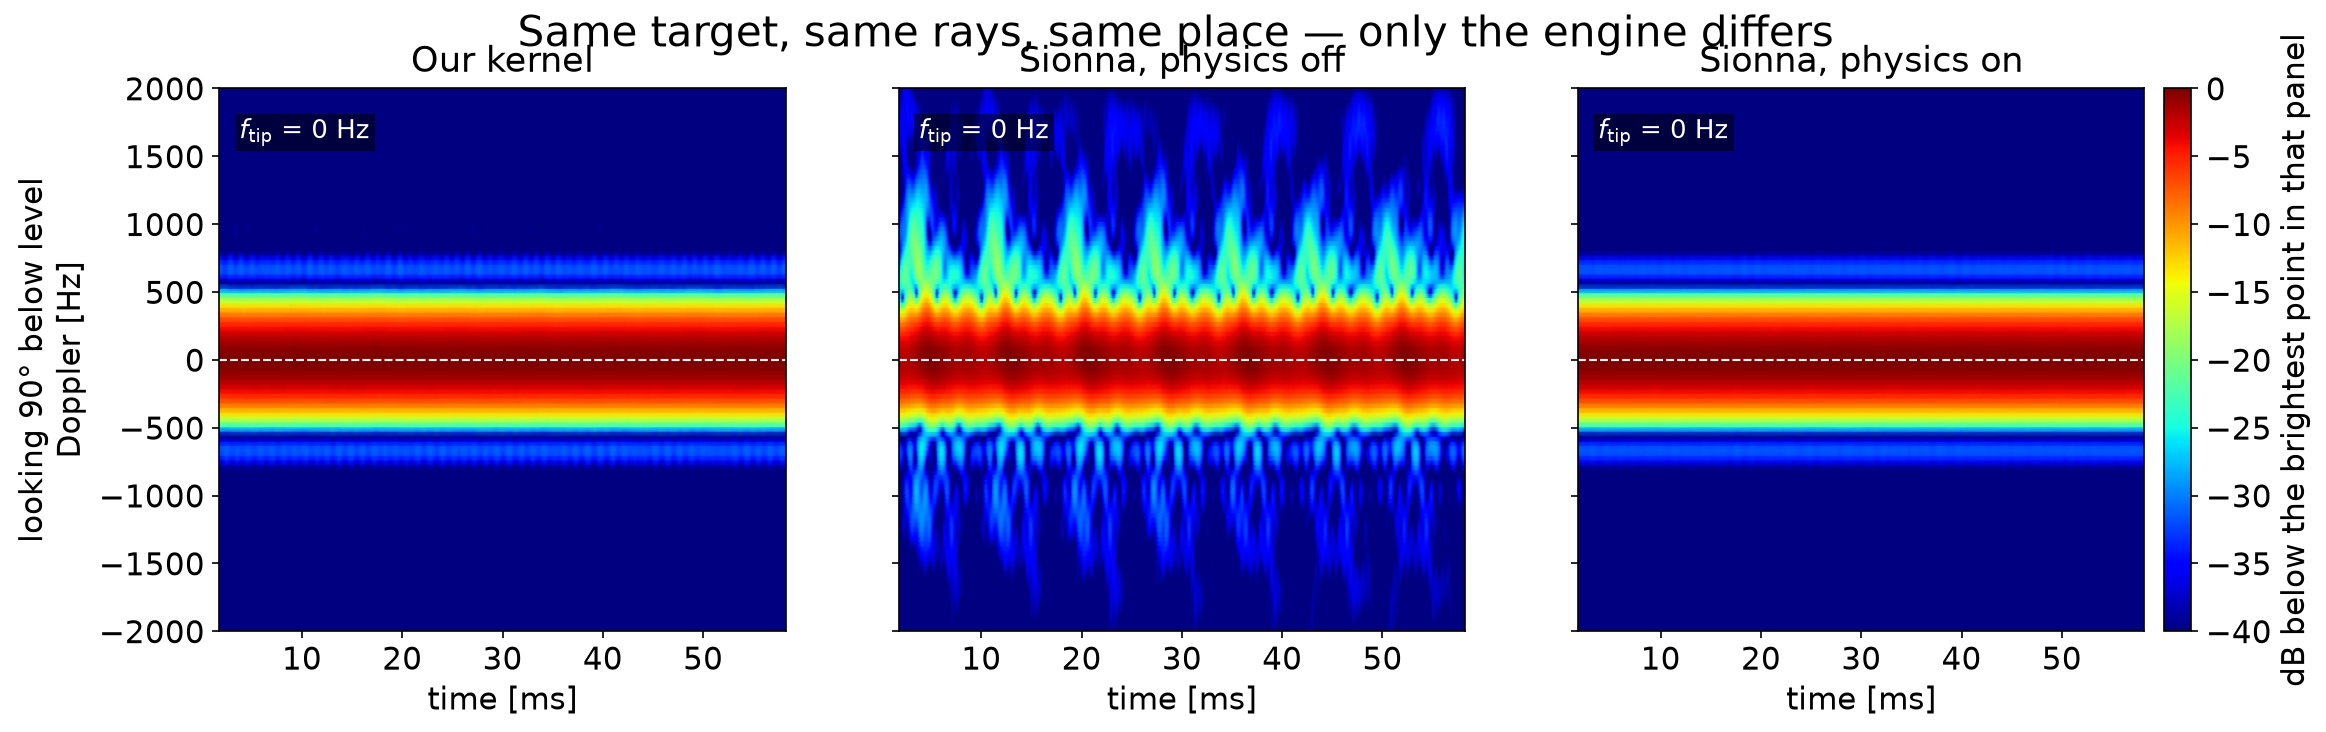
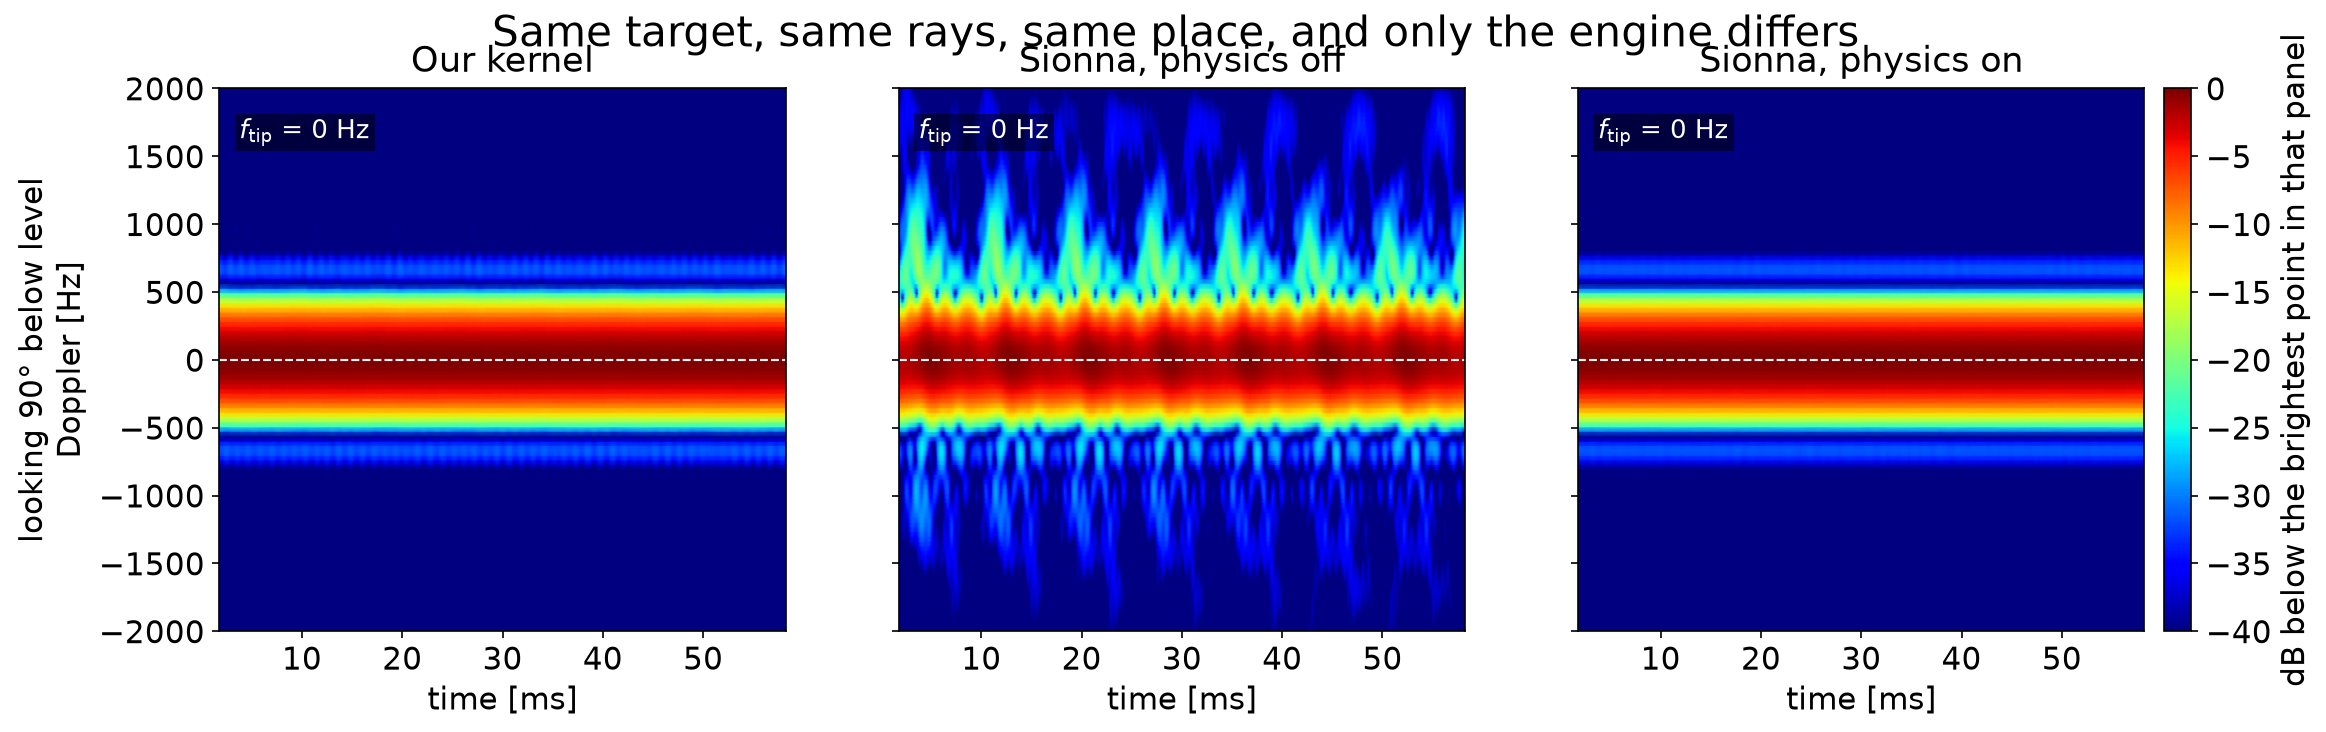
조각 87 에 «이 사다리는 10 m 판이다» 를 못 박고, 원장 키 이름 변경을 따라간다
권 16 의 앞 절들이 15 m 재설계판을 서술하는데 절 5(광선 예산 사다리)만 10 m 다.
같은 권 안에서 거리가 갈리므로 조각 안에 판을 적었다 — 레벨은 이 사다리 안에서만 견준다.

앙각 스윕 원장이 여러 거리를 함께 담게 되면서 키가 바뀐 것을 따라간다.
  _meta.range_m      → _meta.range_m_legacy_default   (옛 10 m 기본값)
  _meta.sionna_spp   → _meta.sionna_spp_primary

Changed region(s): [[0.2167, 0.0, 0.8048, 0.0902]]

diff --git a/src/build_part13_engine_physics.py b/src/build_part13_engine_physics.py
@@ -490,7 +490,7 @@ def blocks_86() -> list:
                ["플래시 예측",
                 PVD.num("_meta.f_flash_hz", fmt="{:.2f}", unit="Hz"), "같음"],
                ["거리", "3 · 15 · 40 m",
-                SWP.num("_meta.range_m", fmt="{:.0f}", unit="m")],
+                SWP.num("_meta.range_m_legacy_default", fmt="{:.0f}", unit="m")],
            ])),
 
         md("## 닮음을 눈이 아니라 수로 잰다", "",
@@ -1071,6 +1071,11 @@ def blocks_87() -> list:
                 f"가 0.02 dB 차다.",
             ],
             method=[
+                ("판",
+                 "⭐이 사다리는 **10 m 자리**에서 돌렸다 — 같은 권의 앞 절들이 서술하는 "
+                 "재설계판(15 m · 광선 40 억 발 고정)과 다른 자리다. 그래서 여기서 읽는 "
+                 "것은 «예산을 올리면 무엇이 어디로 가나» 라는 축 하나이고, 레벨은 "
+                 "**이 사다리 안에서만** 견준다"),
                 ("사다리",
                  "표적·기하·자세 격자·시드를 고정하고 자세당 광선 수만 11.1 M → 250 M → "
                  "1,000 M → 4,000 M 으로 올렸다 — 네 계단 모두 자세 4,096 개가 완결"
@@ -1099,7 +1104,7 @@ def blocks_87() -> list:
 
         md("## 네 계단은 자세당 광선 수 하나만 흔든다", "",
            "팔 이름이 곧 예산이다. `sionna` 는 광선 규칙 (R/3)² × 1M 을 그대로 쓴 팔이고 "
-           "10 m 에서 " + _n("_meta.sionna_spp", "{:,.0f}", "발")
+           "10 m 에서 " + _n("_meta.sionna_spp_primary", "{:,.0f}", "발")
            + " 이다(`benchmark/elevation_sweep_md.py:89`). 꼬리에 숫자가 붙은 팔"
            "(`sionna_p250000000` 등)은 그 수를 직접 준 것이다.", "",
            "네 계단 모두 자세 " + _n(f"{_L0[0]}.n_poses", "{:,.0f}", "개")
@@ -1710,7 +1715,7 @@ def blocks_85() -> list:
                  "(`benchmark/elevation_sweep_md.py:179`)"),
                 ("두 축",
                  "광선 예산(규칙값 "
-                 + num(None, ("outputs/elevation_sweep_md.json", "_meta.sionna_spp"),
+                 + num(None, ("outputs/elevation_sweep_md.json", "_meta.sionna_spp_primary"),
                        "{:,.0f}", "광선/자세")
                  + " · 250M)과 물리 스위치(끔 · 켬) 두 축만 움직이고 앙각 0° · "
                  + FB.num("rows.sionna/el+0.n_poses", 4096, "{:.0f}", "자세")

diff --git a/benchmark/build_deck_maps.py b/benchmark/build_deck_maps.py
@@ -121,7 +121,7 @@ def pair(els=(0.0, -60.0), stem="deck_maps_pair"):
                              if el else "looking level\nDoppler [Hz]")
             if r == len(els) - 1:
                 a.set_xlabel("time [ms]")
-    fig.suptitle("Same target, same rays, same place — only the engine differs",
+    fig.suptitle("Same target, same rays, same place, and only the engine differs",
                  y=0.985, fontsize=20)
     cb = fig.colorbar(ax[0, 0].collections[0], ax=ax, fraction=0.016, pad=0.010)
     cb.set_label("dB below the brightest point in that panel")
